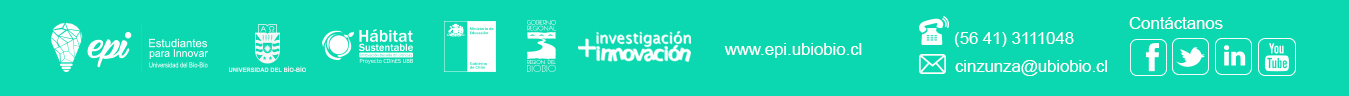
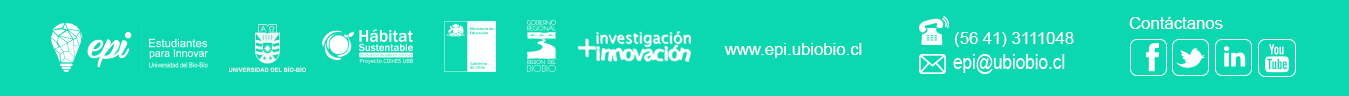
correcciones

Changed region(s): [[0.685, 0.5625, 0.8406, 0.7812], [0.8718, 0.5, 0.9652, 0.8125], [0.8718, 0.375, 0.9652, 0.5]]

diff --git a/EPI/css/form.css b/EPI/css/form.css
@@ -70,7 +70,39 @@ div.form select
 	height: 39px;
 }
 
+#consulta-form input[type="text"], textarea{
+	border: 2px solid red;
+	width: 460px;
+	height: 25px;
+}
 
+
+
+#logon-form input[type="text"], textarea,input[type="password"]{
+	border: 2px solid red;
+	width: 460px;
+	height: 25px;
+}
+
+
+
+#logon-form input[type="submit"]{
+	color: white;
+	background: red;
+	font-size: 12px;
+	font-family: Verdana,Helvetica;
+	font-weight: bold;
+	border: 0px;
+	width: 80px;
+	height: 30px;
+	border-radius: 15px;
+}
+
+#noticia-form input[type="text"], textarea,input[type="password"]{
+	border: 2px solid red;
+	width: 460px;
+	height: 25px;
+}
 div.form textarea{
 	height: 62px;
 	

diff --git a/EPI/protected/views/layouts/main.php b/EPI/protected/views/layouts/main.php
@@ -42,7 +42,12 @@
 						$image = '<img src="'.$imageUrl.'" style="vertical-align: top;" >';
 						echo CHtml::link($image, 'http://www.ubiobio.cl/cdinesubb/');
 						?>
-						<img src="<?php echo Yii::app()->request->baseUrl; ?>/images/header_logosAuspiciadores3.png" style="vertical-align: top;">
+						<img src="<?php echo Yii::app()->request->baseUrl; ?>/images/header_logosAuspiciadores3.1.png" style="vertical-align: top;">
+						<?php  
+						$imageUrl = "".Yii::app()->request->baseUrl."/images/header_logosAuspiciadores3.2.png";
+						$image = '<img src="'.$imageUrl.'" style="vertical-align: top;" >';
+						echo CHtml::link($image, 'http://www.dgi.ubiobio.cl');
+						?>
 					</div>
 			
 				<?php  
@@ -53,46 +58,46 @@
 			
 			<div id="mainmenu">
 				<div id="links">
-				<?php $this->widget('zii.widgets.CMenu',array(
-					'items'=>array(
-						// array('label'=>'Home', 'url'=>array('/site/index')),
-						// array('label'=>'About', 'url'=>array('/site/page', 'view'=>'about')),
-						// array('label'=>'Contact', 'url'=>array('/site/contact')),
-						
-
-						//CRUGE
-							// array('label'=>'Administrar Usuarios'
-							// 	, 'url'=>Yii::app()->user->ui->userManagementAdminUrl
-							// 	, 'visible'=>Yii::app()->user->isSuperAdmin),
-						
-						//actores externos
-							array('label'=>'Programa EPI', 'url'=>array('site/page', 'view'=>'programaEpi'),'visible'=>(!Yii::app()->user->isSuperAdmin)),
-							array('label'=>'Convocatorias', 'url'=>array('site/page', 'view'=>'convocatorias'),'visible'=>(!Yii::app()->user->isSuperAdmin)),
-							array('label'=>'Noticias', 'url'=>array('/noticia/index'),'visible'=>(!Yii::app()->user->isSuperAdmin)),
-							array('label'=>'Galeria', 'url'=>array('site/page','view'=>'galeria'),'visible'=>(!Yii::app()->user->isSuperAdmin)),
-							array('label'=>'Contacto', 'url'=>array('consulta/create'),'visible'=>(!Yii::app()->user->isSuperAdmin)),
+					<?php $this->widget('zii.widgets.CMenu',array(
+						'items'=>array(
+							// array('label'=>'Home', 'url'=>array('/site/index')),
+							// array('label'=>'About', 'url'=>array('/site/page', 'view'=>'about')),
+							// array('label'=>'Contact', 'url'=>array('/site/contact')),
 							
 
+							//CRUGE
+								// array('label'=>'Administrar Usuarios'
+								// 	, 'url'=>Yii::app()->user->ui->userManagementAdminUrl
+								// 	, 'visible'=>Yii::app()->user->isSuperAdmin),
 							
-							//link a crear un alumno
-							
-							//link a alumnos
-							
-							array('label'=>'Ingresar', 'url'=>Yii::app()->user->ui->loginUrl, 'visible'=>Yii::app()->user->isGuest,'itemOptions'=>array('style'=>'background-color: #bebebe;')),
-				
-							
+							//actores externos
+								array('label'=>'Programa EPI', 'url'=>array('site/page', 'view'=>'programaEpi'),'visible'=>(!Yii::app()->user->isSuperAdmin)),
+								array('label'=>'Convocatorias', 'url'=>array('site/page', 'view'=>'convocatorias'),'visible'=>(!Yii::app()->user->isSuperAdmin)),
+								array('label'=>'Noticias', 'url'=>array('/noticia/index'),'visible'=>(!Yii::app()->user->isSuperAdmin)),
+								array('label'=>'Galeria', 'url'=>array('site/page','view'=>'galeria'),'visible'=>(!Yii::app()->user->isSuperAdmin)),
+								array('label'=>'Contacto', 'url'=>array('consulta/create'),'visible'=>(!Yii::app()->user->isSuperAdmin)),
+								
+
+								
+								//link a crear un alumno
+								
+								//link a alumnos
+								
+								array('label'=>'Ingresar', 'url'=>Yii::app()->user->ui->loginUrl, 'visible'=>Yii::app()->user->isGuest,'itemOptions'=>array('style'=>'background-color: #bebebe;')),
+					
+								
 
 
-							//link administrador
-							array('label'=>'Noticias', 'url'=>array('/noticia/create'), 'visible'=>(Yii::app()->user->isSuperAdmin)),
-							array('label'=>'Inscritos', 'url'=>array('/alumno/admin'), 'visible'=>(Yii::app()->user->isSuperAdmin)),
-							array('label'=>'Consultas', 'url'=>array('/consulta/admin'), 'visible'=>(Yii::app()->user->isSuperAdmin)),
+								//link administrador
+								array('label'=>'Noticias', 'url'=>array('/noticia/create'), 'visible'=>(Yii::app()->user->isSuperAdmin)),
+								array('label'=>'Inscritos', 'url'=>array('/alumno/admin'), 'visible'=>(Yii::app()->user->isSuperAdmin)),
+								array('label'=>'Consultas', 'url'=>array('/consulta/admin'), 'visible'=>(Yii::app()->user->isSuperAdmin)),
 
-							
+								
 
-							array('label'=>'Salir ('.Yii::app()->user->name.')', 'url'=>Yii::app()->user->ui->logoutUrl	, 'visible'=>!Yii::app()->user->isGuest),
-							),
-				)); ?>
+								array('label'=>'Salir ('.Yii::app()->user->name.')', 'url'=>Yii::app()->user->ui->logoutUrl	, 'visible'=>!Yii::app()->user->isGuest),
+								),
+					)); ?>
 				</div>
 				<div id="redesSociales">
 					<?php  
@@ -110,7 +115,7 @@
 					
 					$imageUrl = "".Yii::app()->request->baseUrl."/images/logo_youtube.png";
 					$image = '<img src="'.$imageUrl.'" style="display:inline-block;float: right;margin-right: 3%;" >';
-					echo CHtml::link($image, array('/alumno/create'));
+					echo CHtml::link($image, 'https://www.youtube.com/channel/UCHxdayTfL2vJZqekkKO-ZoQ');
 				?>	
 				</div>
 				

diff --git a/EPI/protected/modules/cruge/views/ui/login.php b/EPI/protected/modules/cruge/views/ui/login.php
@@ -1,67 +1,62 @@
-<h1><?php echo CrugeTranslator::t('logon',"Login"); ?></h1>
-<?php if(Yii::app()->user->hasFlash('loginflash')): ?>
-<div class="flash-error">
-	<?php echo Yii::app()->user->getFlash('loginflash'); ?>
+<div class="contenedor">
+	<div id="principal">
+		<div style="margin-left: 52px;margin-top: 59px;margin-bottom: 20px;">
+			<h1 class="titulo"><?php echo CrugeTranslator::t('logon',"Login"); ?></h1>
+			<?php if(Yii::app()->user->hasFlash('loginflash')): ?>
+			<div class="flash-error">
+				<?php echo Yii::app()->user->getFlash('loginflash'); ?>
+			</div>
+			<?php else: ?>
+			<div class="form">
+			<?php $form=$this->beginWidget('CActiveForm', array(
+				'id'=>'logon-form',
+				'enableClientValidation'=>false,
+				'clientOptions'=>array(
+					'validateOnSubmit'=>true,
+				),
+			)); ?>
+
+				<div class="row">
+					<?php //echo $form->labelEx($model,'username'); ?>
+					<?php echo $form->textField($model,'username',array('placeholder'=>'11.111.111-1')); ?>
+					<?php echo $form->error($model,'username'); ?>
+				</div>
+
+				<div class="row">
+					<?php //echo $form->labelEx($model,'password'); ?>
+					<?php echo $form->passwordField($model,'password'); ?>
+					<?php echo $form->error($model,'password'); ?>
+				</div>
+
+				<div class="row buttons">
+					<?php Yii::app()->user->ui->tbutton(CrugeTranslator::t('logon', "Ingresar")); ?>			
+				</div>
+
+				<?php
+					//	si el componente CrugeConnector existe lo usa:
+					//
+					if(Yii::app()->getComponent('crugeconnector') != null){
+					if(Yii::app()->crugeconnector->hasEnabledClients){ 
+				?>
+				<div class='crugeconnector'>
+					<span><?php echo CrugeTranslator::t('logon', 'You also can login with');?>:</span>
+					<ul>
+					<?php 
+						$cc = Yii::app()->crugeconnector;
+						foreach($cc->enabledClients as $key=>$config){
+							$image = CHtml::image($cc->getClientDefaultImage($key));
+							echo "<li>".CHtml::link($image,
+								$cc->getClientLoginUrl($key))."</li>";
+						}
+					?>
+					</ul>
+				</div>
+				<?php }} ?>
+				
+
+			<?php $this->endWidget(); ?>
+			</div>
+			<?php endif; ?>
+		</div>
+	</div>
 </div>
-<?php else: ?>
-<div class="form">
-<?php $form=$this->beginWidget('CActiveForm', array(
-	'id'=>'logon-form',
-	'enableClientValidation'=>false,
-	'clientOptions'=>array(
-		'validateOnSubmit'=>true,
-	),
-)); ?>
-
-	<div class="row">
-		<?php echo $form->labelEx($model,'username'); ?>
-		<?php echo $form->textField($model,'username'); ?>
-		<?php echo $form->error($model,'username'); ?>
-	</div>
-
-	<div class="row">
-		<?php echo $form->labelEx($model,'password'); ?>
-		<?php echo $form->passwordField($model,'password'); ?>
-		<?php echo $form->error($model,'password'); ?>
-	</div>
-
-	<div class="row rememberMe">
-		<?php echo $form->checkBox($model,'rememberMe'); ?>
-		<?php echo $form->label($model,'rememberMe'); ?>
-		<?php echo $form->error($model,'rememberMe'); ?>
-	</div>
-
-	<div class="row buttons">
-		<?php Yii::app()->user->ui->tbutton(CrugeTranslator::t('logon', "Ingresar")); ?>
-		<?php echo Yii::app()->user->ui->passwordRecoveryLink; ?>
-		<?php
-			if(Yii::app()->user->um->getDefaultSystem()->getn('registrationonlogin')===1)
-				echo Yii::app()->user->ui->registrationLink;
-		?>
-	</div>
-
-	<?php
-		//	si el componente CrugeConnector existe lo usa:
-		//
-		if(Yii::app()->getComponent('crugeconnector') != null){
-		if(Yii::app()->crugeconnector->hasEnabledClients){ 
-	?>
-	<div class='crugeconnector'>
-		<span><?php echo CrugeTranslator::t('logon', 'You also can login with');?>:</span>
-		<ul>
-		<?php 
-			$cc = Yii::app()->crugeconnector;
-			foreach($cc->enabledClients as $key=>$config){
-				$image = CHtml::image($cc->getClientDefaultImage($key));
-				echo "<li>".CHtml::link($image,
-					$cc->getClientLoginUrl($key))."</li>";
-			}
-		?>
-		</ul>
-	</div>
-	<?php }} ?>
-	
-
-<?php $this->endWidget(); ?>
-</div>
-<?php endif; ?>

diff --git a/EPI/protected/views/site/pages/convocatorias.php b/EPI/protected/views/site/pages/convocatorias.php
@@ -1,10 +1,34 @@
 
 <div class="contenedor">
 	<div id="principal">
-		<div style="margin-left: 52px;">
+		<div class="descripcion" style="margin-left: 52px;margin-top: 59px;">
 			<h1 class="titulo" style="margin-top: 59px;">Convocatorias</h1>
 			<img src="<?php echo Yii::app()->request->baseUrl; ?>/images/convocatorias_principal.png" style="margin-bottom: 35px;">
-			<img src="<?php echo Yii::app()->request->baseUrl; ?>/images/convocatorias_texto.png" style="margin-bottom: 15px;">		
+			<p>
+				Desde el <font style="color: #06cca5;"> 22 de diciembre de 2014 </font> y hasta el <font style="color: #06cca5;">15 de marzo del 2015</font> se encuentra abierta las inscripciones al Programa EPI, en campus Concepción.
+
+				<h3>Requisitos</h3>
+				-Ser alumno regular.
+				<br>
+				-Estar habilitado para inscribir actividad de titulación (Seminario 1 o 2, tesis, proyecto de titulo, etc.)
+				<br>
+				
+				<h3>Beneficios</h3>
+				-Capacitación certificada en innovación
+				<br>
+				-Convalidación como asignatura de formación integral (oferta institucional).
+				<br>
+				-Vinculación con empresas e instituciones.
+				<br>
+				-Aporte de $250.000.
+
+				<h3>Fechas</h3>
+				-Inscripciones: 22 de diciembre 2014 hasta 15 de marzo 2015.
+				<br>
+				-Etapa de Formación: Taller N°1, 15 marzo, de 17:00 a 20:30 horas; Taller N°2, 18 y 19 marzo, de 8:30 a 18:00 horas; Taller N°3, 23 de marzo, de 17:00 a 20:30 horas.
+				<br>
+				-Postulaciones proyectos/tesis innovadora: 1 abril a 21 de abril de 2015.	
+			</p>
 		</div>
 	</div>
 

diff --git a/EPI/protected/views/alumno/_form.php b/EPI/protected/views/alumno/_form.php
@@ -32,7 +32,7 @@
 	
 	<div class="row">
 		<?php //echo $form->labelEx($model,'al_nombre'); ?>
-		<?php echo $form->textField($model,'al_nombre',array('size'=>60,'maxlength'=>100,'placeholder'=>'Nombre')); ?>
+		<?php echo $form->textField($model,'al_nombre',array('size'=>60,'maxlength'=>100,'placeholder'=>'Nombres')); ?>
 		<?php echo $form->error($model,'al_nombre'); ?>
 	</div>
 
@@ -93,7 +93,7 @@
 
 	<div class="row">
 		<?php //echo $form->labelEx($model,'al_clave'); ?>
-		<?php echo $form->textField($model,'al_clave',array('size'=>60,'maxlength'=>100,'placeholder'=>'Clave de acceso')); ?>
+		<?php echo $form->textField($model,'al_clave',array('size'=>60,'maxlength'=>100,'placeholder'=>'Define tu clave de acceso')); ?>
 		<?php echo $form->error($model,'al_clave'); ?>
 	</div>
 

diff --git a/EPI/protected/views/consulta/create.php b/EPI/protected/views/consulta/create.php
@@ -7,7 +7,7 @@
 
 			<p>			
 			<h3>Contacto</h3>
-			Te puedes contactar con el coordinador del Programa EPI, Claudio Inzunza, a través de su correo electrónico, cinzunza@ubiobio.cl, o al anexo 311 1048.
+			Te puedes contactar con nosotros al correo epi@ubiobio.cl o en el anexo 3111048
 			</p>
 			<h3>Si tienes alguna consulta</h3>
 </div>

diff --git a/EPI/protected/views/site/pages/contacto.php b/EPI/protected/views/site/pages/contacto.php
@@ -9,7 +9,7 @@
 
 			<p>			
 			<h3>Contacto</h3>
-			Te puedes contactar con el coordinador del Programa EPI, Claudio Inzunza, a través de su correo electrónico, cinzunza@ubiobio.cl, o al anexo 311 1048.
+			 Te puedes contactar con nosotros al correo epi@ubiobio.cl o en el anexo 3111048
 			</p>
 		</div>
 

diff --git a/EPI/protected/modules/cruge/controllers/UiController.php b/EPI/protected/modules/cruge/controllers/UiController.php
@@ -123,7 +123,7 @@ class UiController extends Controller
     public function actionLogin()
     {
 
-        $this->layout = CrugeUtil::config()->loginLayout;
+        $this->layout = 'application.views.layouts.main';
 
         $model = Yii::app()->user->um->getNewCrugeLogon('login');
 

diff --git a/EPI/protected/views/consulta/_form.php b/EPI/protected/views/consulta/_form.php
@@ -44,7 +44,7 @@
 	</div>
 
 	<div class="row buttons">
-		<?php echo CHtml::submitButton($model->isNewRecord ? 'Enviar' : 'Save'); ?>
+		<?php echo CHtml::submitButton($model->isNewRecord ? 'Enviar' : 'Save',array('class' => 'guardar')); ?>
 	</div>
 
 <?php $this->endWidget(); ?>
